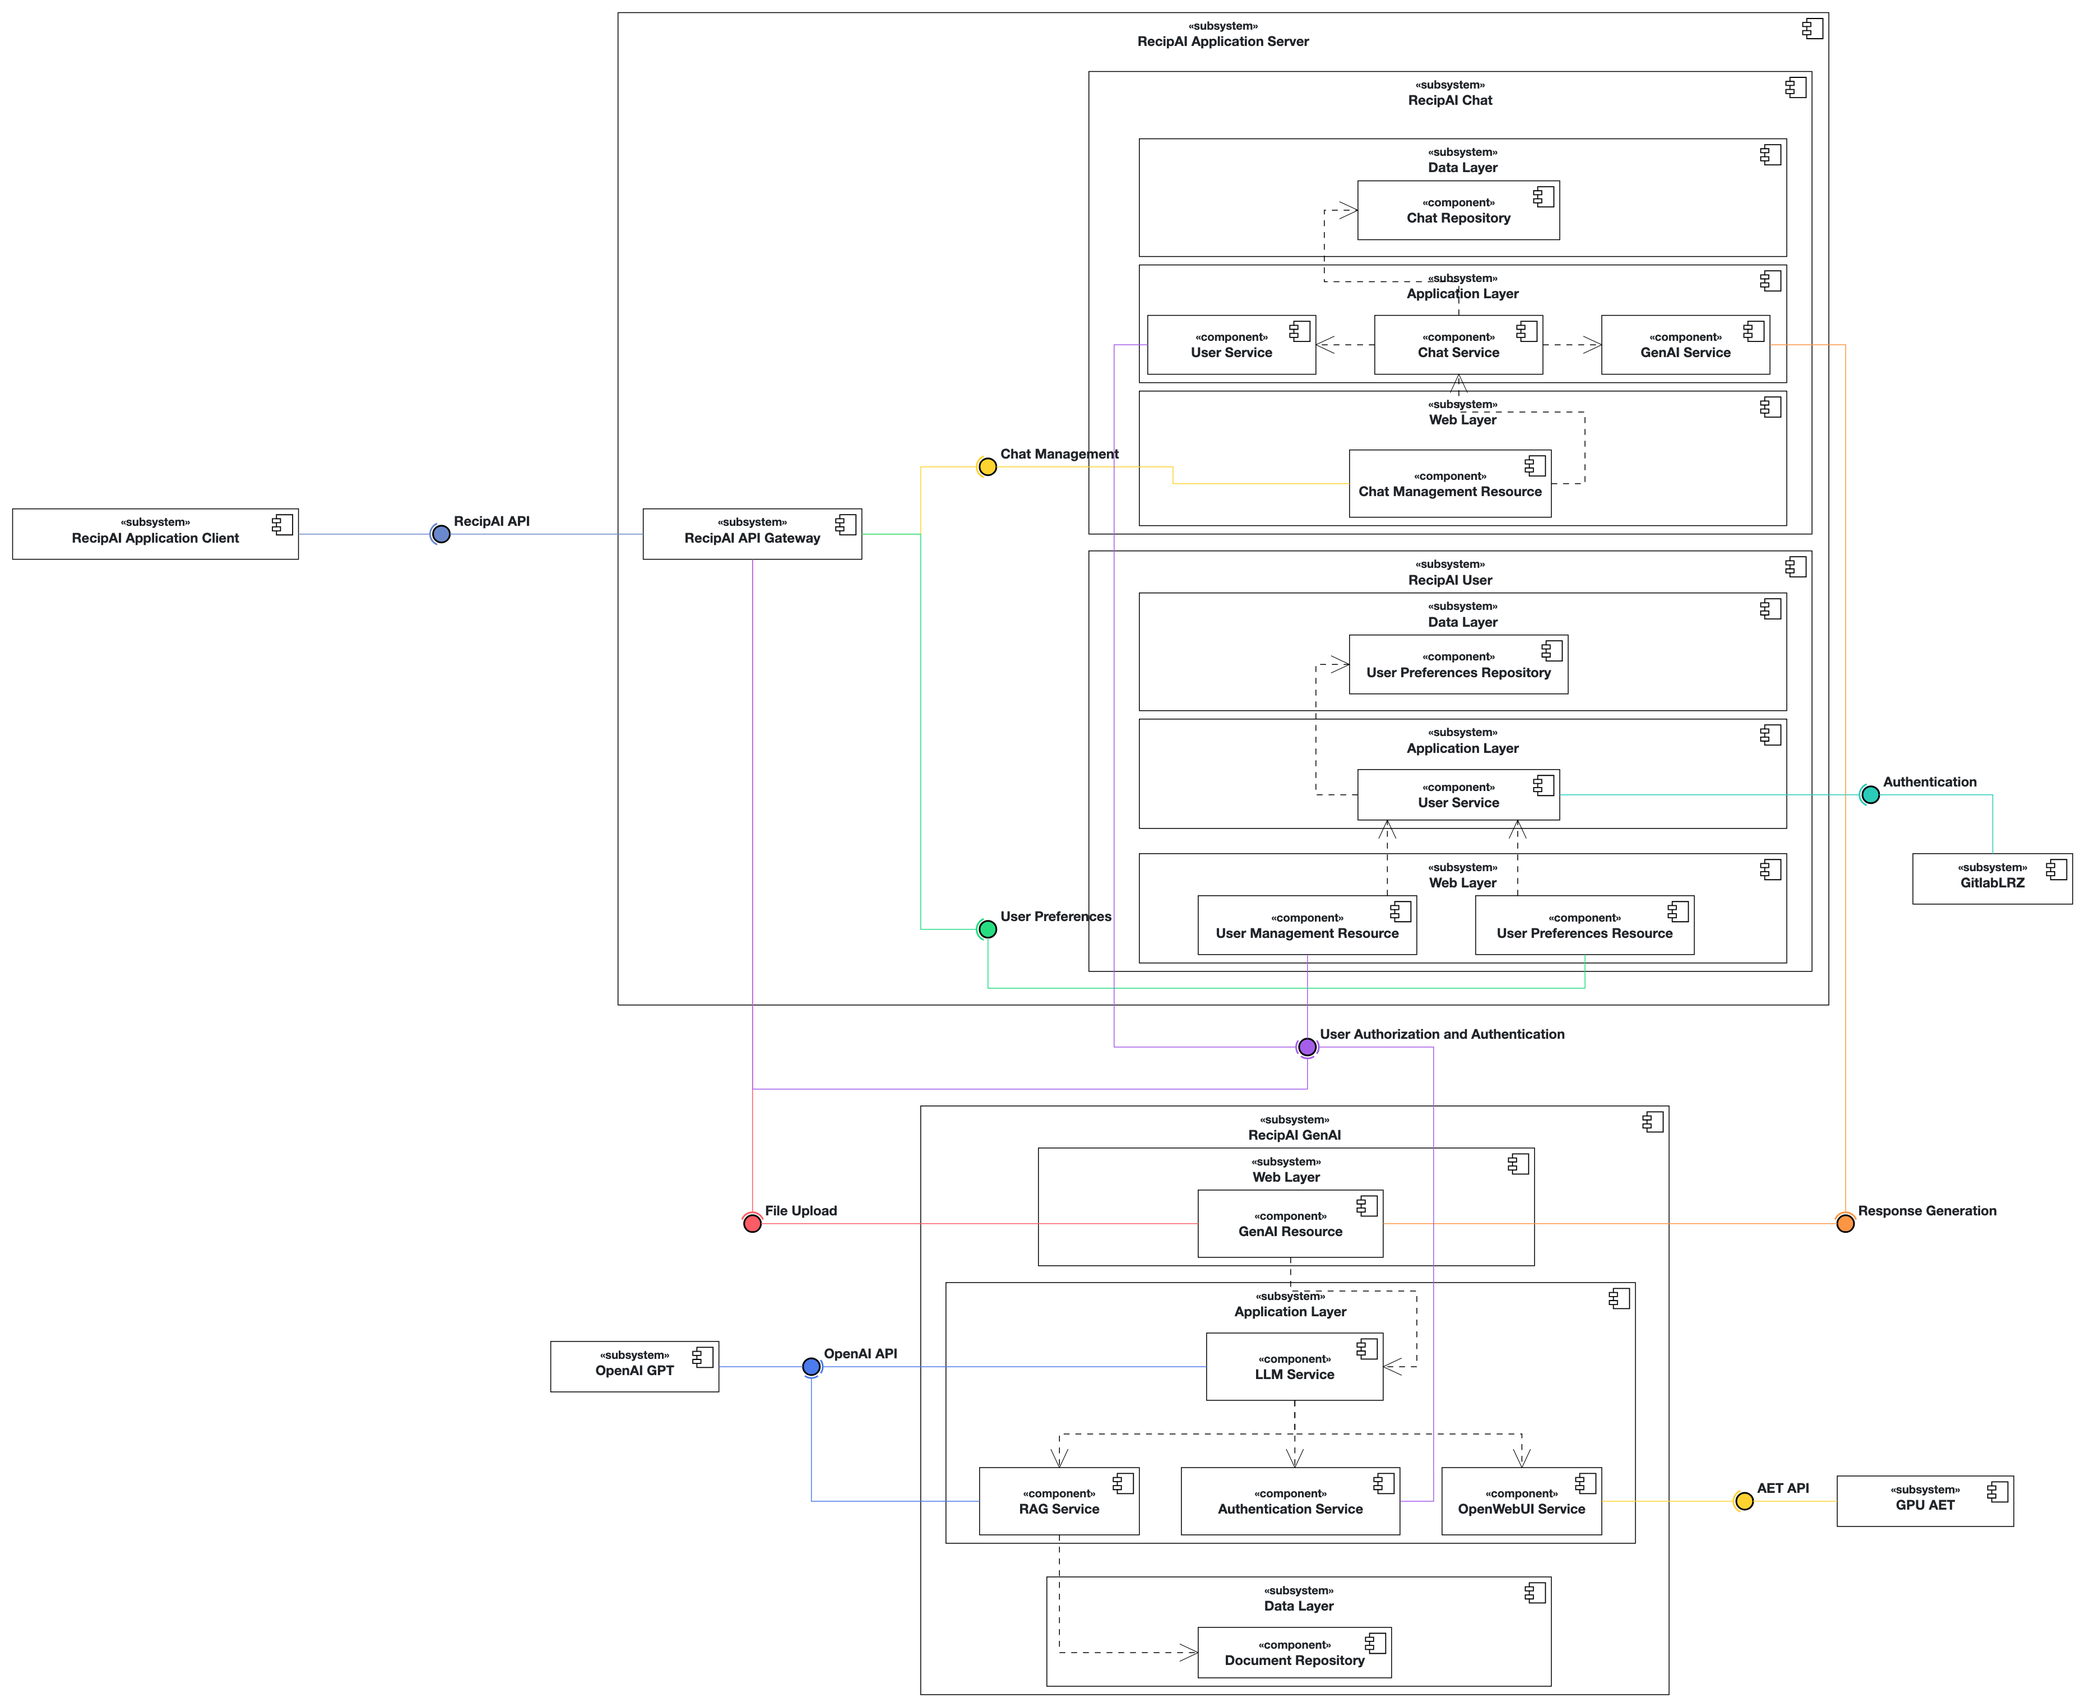
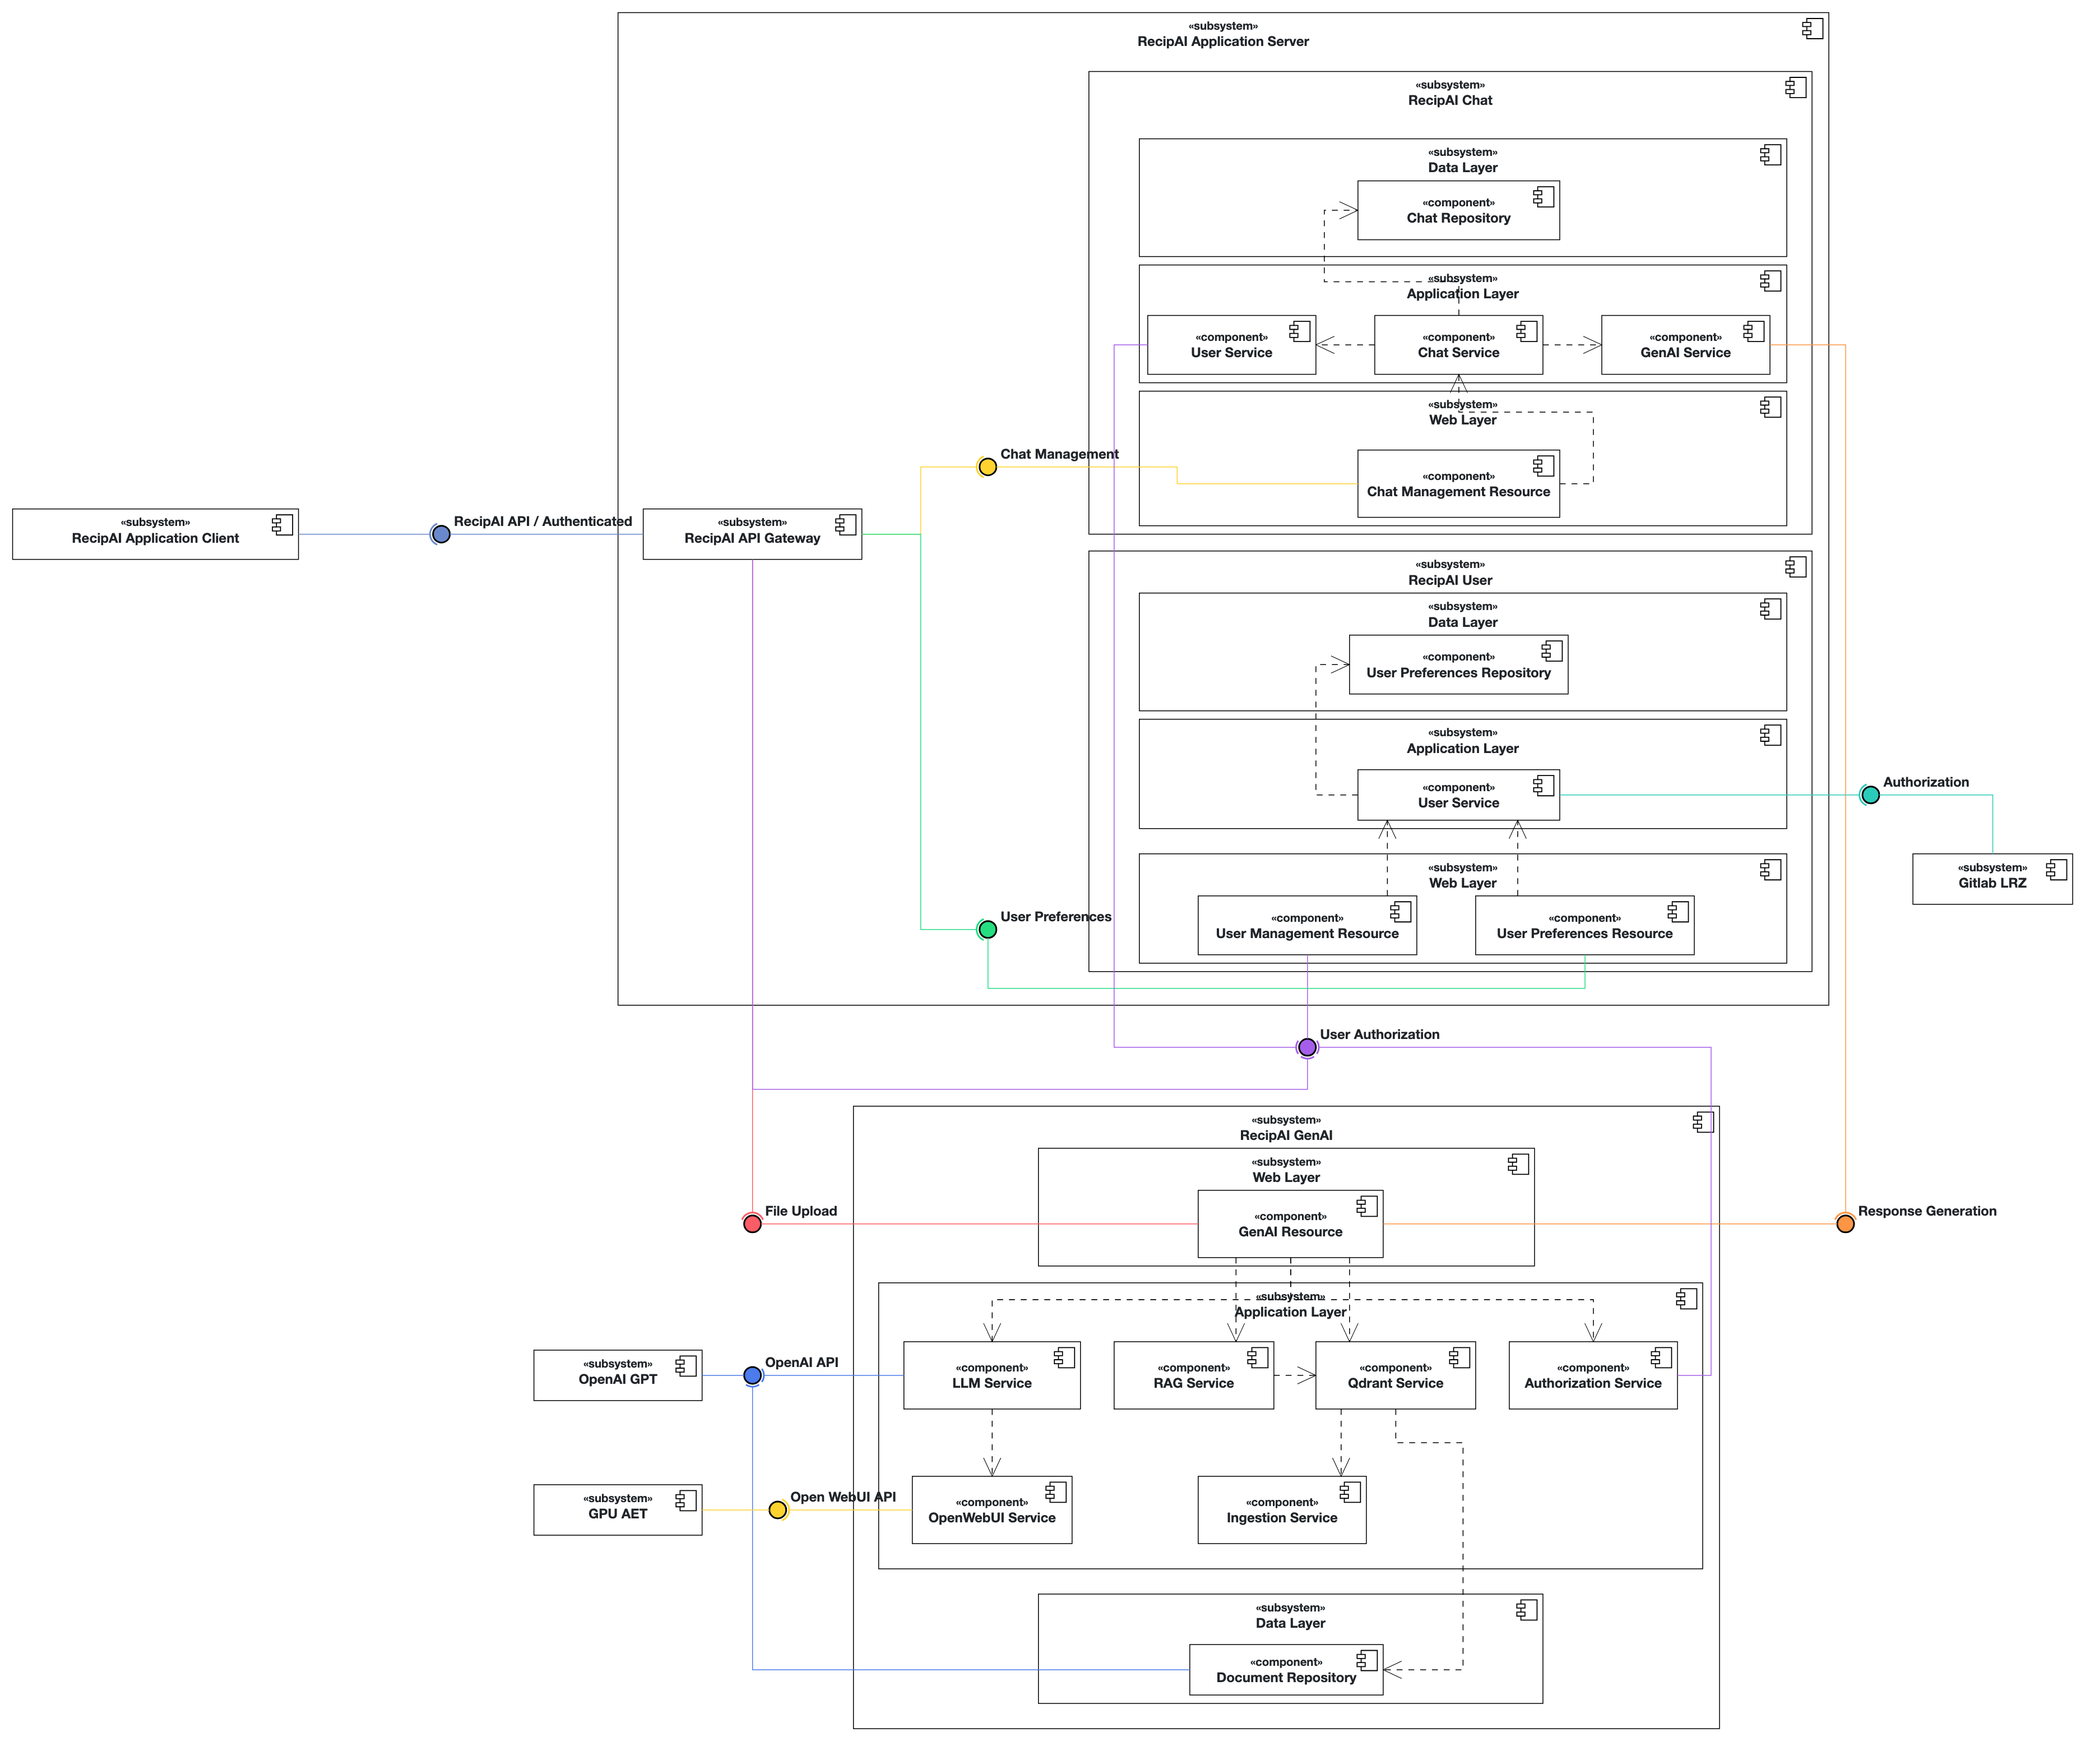
Update architecture diagram and finalize readme

diff --git a/requirements.md b/requirements.md
@@ -1,0 +1,69 @@
+# Project Requirements Checklist
+## 1. 🧩 Functional Application (20 Points)
+
+| Criteria  |	Points | Status | Where to find |
+|--------|--------|--------|--------|
+| End-to-end functionality between all components (client, server, database) | 	6 | ✅ | Application works fine at [`https://recipai.student.k8s.aet.cit.tum.de`](https://recipai.student.k8s.aet.cit.tum.de)|
+| Smooth and usable user interface|  	4 | ✅ | e.g. [Main Page](README.md#main-page), [User Preferences](README.md#user-preferences) |
+| REST API is clearly defined and matches functional needs|  	4 | ✅ | [openapi.yaml](api/openapi.yaml) |
+| Server Side has at least 3 microservices |  	4 |  ✅ | [API-Gateway](server/api-gw/), [User](server/user/), [Chat](server/user/)|
+| Application topic is appropriately chosen and fits project objectives | 	2 |  ✅ |  [Project Description](README.md#project-description), [Functional and Nonfunctional Requirements](README.md#requirements) |
+
+## 2. 🤖 GenAI Integration (10 Points)
+
+| Criteria  |	Points | Status | Where to find |
+|--------|--------|--------|--------|
+| GenAI module is well-embedded and fulfills a real user-facing purpose | 	4 | ✅ | [GenAI Integration](README.md#integration-of-generative-ai), [Techical Details of GenAI](README.md#genai-service-development) |
+| Connects to cloud/local LLM | 4 | ✅ | [Cloud and Local LLM Integration](genai/service/llm_service.py), [Cloud LLM](genai/rag/llm/cloud_chat_model.py), [Local LLM](genai/rag/llm/chat_model.py)  |
+| Modularity of the GenAI logic as a microservice | 2 | ✅ | [Dockerfile](genai/Dockerfile) |
+
+## 3. 🐳 Containerization & Local Setup (10 Points)
+
+| Criteria  |	Points | Status | Where to find |
+|--------|--------|--------|--------|
+| Each component is containerized and runnable in isolation | 6 | ✅ | [GenAI Docker Image](https://github.com/AET-DevOps25/team-continuous-disappointment/pkgs/container/team-continuous-disappointment%2Fgenai), [API Gateway Docker Image](https://github.com/AET-DevOps25/team-continuous-disappointment/pkgs/container/team-continuous-disappointment%2Fapi-gw), [Chat Docker Image](https://github.com/AET-DevOps25/team-continuous-disappointment/pkgs/container/team-continuous-disappointment%2Fchat), [User Docker Image](https://github.com/AET-DevOps25/team-continuous-disappointment/pkgs/container/team-continuous-disappointment%2Fuser), [Client Docker Image](https://github.com/AET-DevOps25/team-continuous-disappointment/pkgs/container/team-continuous-disappointment%2Fclient)|
+| docker-compose.yml enables local development and testing with minimal effort and provides sane defaults (no complex env setup required) | 4 | ✅ | [Docker Compose File](docker-compose.yml), For Local Development: [Docker Compose Dev File](docker-compose-dev.yml) |
+
+## 4. 🔁 CI/CD & Deployment (20 Points)
+
+| Criteria  |	Points | Status | Where to find |
+|--------|--------|--------|--------|
+| CI pipeline with build, test, and Docker image generation via GitHub Actions | 8 | ✅ | [CI/CD Pipeline](https://github.com/AET-DevOps25/team-continuous-disappointment/actions/workflows/ci-cd.yml), [CI/CD Github Actions File](.github/workflows/ci-cd.yml)|
+| CD pipeline set up to automatically deploy to Kubernetes on main merge | 6 | ✅ | Line 256: helm-deploy in [CI/CD Github Actions File](.github/workflows/ci-cd.yml)  |
+| Deployment works on our infrastructure (Rancher) and Cloud (AWS) | 6 | ✅ | [Rancher Deployment](.github/workflows/ci-cd.yml), [AWS Deployment with Ansible](.github/workflows/ansible-manual.yml) and [Ansible Playbooks](infra/ansible/playbooks/) | 
+
+## 5. 📊 Monitoring & Observability (10 Points)
+
+| Criteria  |	Points | Status | Where to find |
+|--------|--------|--------|--------|
+| Prometheus integrated and collecting meaningful metrics | 4 | ✅ | [Kubernetes](infra/recipai-chart/templates/prometheus/), [Docker](monitoring/prometheus/)|
+| Grafana dashboards for system behavior visualization | 4 | ✅ | Kubernetes: [GenAI Dashboard](infra/recipai-chart/dashboards/genai-dashboard.json), [Chat Dasboard](infra/recipai-chart/dashboards/chat-dashboard.json), [System Dashboard](infra/recipai-chart/dashboards/system-dashboard.json); Docker: [GenAI Dashboard](monitoring/grafana/provisioning/dashboards/genai-dashboard.json), [Chat Dasboard](monitoring/grafana/provisioning/dashboards/chat-dashboard.json), [System Dashboard](monitoring/grafana/provisioning/dashboards/system-dashboard.json) |
+| At least one alert rule set up | 2 | ✅ | [Discord Alert in Kubernetes](infra/recipai-chart/templates/grafana/grafana-alerting.yml), [Discord Alert in Docker](monitoring/grafana/provisioning/alerting/) |
+
+## 6. 🧪 Testing & Structured Engineering Process (20 Points)
+
+| Criteria  |	Points | Status | Where to find |
+|--------|--------|--------|--------|
+| Test cases implemented for server/client and GenAI logic | 6 | ✅ | [Server: Chat](server/chat/src/test/java/com/continiousdisappointment/chat/ChatServiceTest.java), [Server: User](server/user/src/test/java/com/continiousdisappointment/user/UserServiceTest.java), [GenAI](genai/tests/), [Client](client/src/components/__tests__/)|
+| Evidence of software engineering process: documented requirements, architecture models, such as top-level architecture, use case diagramm and analysis object model. | 10 | ✅ | [UML Diagrams](docs/architecture_diagrams/), [Functional and Nonfunctional Requirements](README.md#requirements) |
+| Tests run automatically in CI and cover key functionality | 4 | ✅ | [All tests run automatically in CI/CD](.github/workflows/ci-cd.yml) |
+
+## 7. 📚 Documentation & Weekly Reporting (10 Points)
+
+| Criteria  |	Points | Status | Where to find |
+|--------|--------|--------|--------|
+| README.md and some parts in Confluence includes setup instructions, architecture overview, usage guide, and a clear mapping of student responsibilities | 2 | ✅ | [Setup Instructions](README.md#setup-instructions), [Architecture Overview](README.md#architecture-overview), [Usage Guide](README.md#usage-guide), [Student Responsibilities](README.md#components-and-responsibilities-system-design), [Weekly Reports](https://confluence.aet.cit.tum.de/spaces/DO25WR/pages/258580182/team+continous+disappointment)|
+| Documentation of CI/CD setup, and GenAI usage included | 2 | ✅ | [CI/CD Setup](README.md#cicd-pipeline), [GenAI Usage](README.md#genai-usage) |
+| Deployment and local setup instructions are clear, reproducible, and platform-specific (≤3 commands for local setup, with sane defaults) | 2 | ✅ | [Local Setup Instructions](README.md#setup-instructions), [Running the Application](README.md#running-the-application), [Deployment Instructions](README.md#cicd-pipeline) |
+| Subsystems have documented interfaces (API-driven deployment, e.g. Swagger/OpenAPI) | 2 | ✅ | [openapi.yaml](api/openapi.yaml), API Documentation published via Github Pages [`https://aet-devops25.github.io/team-continuous-disappointment/api-documentation/`](https://aet-devops25.github.io/team-continuous-disappointment/api-documentation/) |
+| Monitoring instructions included in the documentation and exported as files | 2 | ✅ | [Monitoring and Observability](README.md#monitoring-and-observability) |
+
+## 🏅 Bonus Points (up to +5)
+
+| Criteria  |	Points | Status | Where to find |
+|--------|--------|--------|--------|
+| Advanced Kubernetes use (e.g., self-healing, custom operators, auto-scaling) | +1 | ❌ | - |
+| Full RAG pipeline implementation (with vector DB like Weaviate) | +1 | ✅ | [Qdrant Vector Database](genai/vector_database/qdrant_vdb.py), [Qdrant Service](genai/service/qdrant_service.py), [Ingestion Pipeline](genai/service/ingestion_service.py), [RAG Service](genai/service/rag_service.py) |
+| Real-world-grade observability (e.g., log aggregation, tracing) | +1 | ✅ | Log Aggregation implemented: [Loki for Kubernetes](infra/recipai-chart/templates/loki/), [Promtail for Kubernetes](infra/recipai-chart/templates/promtail/), [Loki for Docker](monitoring/loki/), [Promtail for Docker](monitoring/promtail/) |
+| Beautiful, original UI or impactful project topic | +1 | ❓ | We think RecipAI has a beautiful UI and a nice project for cooking enthusiasts and individuals with dietary restrictions 👩🍳👨🍳 |
+| Advanced monitoring setup with extensive and meaningful metrics (e.g., custom Prometheus exporters or Grafana dashboards with annotated insights) | +1 | ✅ | [Extensive Prometheus Metrics for GenAI with Grafana Dashboard](infra/recipai-chart/dashboards/genai-dashboard.json), [Extensive Prometheus Metrics for Chat Service with Grafana Dashboard](infra/recipai-chart/dashboards/chat-dashboard.json), [Custom Node-level CPU/memory monitoring with Grafana Dashboard](infra/recipai-chart/dashboards/system-dashboard.json) |

diff --git a/README.md b/README.md
@@ -26,6 +26,22 @@ The application is designed for home cooks, culinary enthusiasts, individuals wi
 
 Generative AI is integrated meaningfully through a dedicated LLM microservice developed in Python. This service processes user inputs in natural language, generates recipes based on the provided ingredients, modifies existing recipes according to user needs, and provides meal suggestions based on the user dietary preferences. The use of GenAI enhances the user experience by offering a personalized RAG system that emphasizes user-specific recipe collections. Through the use of a conversational AI system, we provide to the users with a multi-turn chat with context preservation.
 
+### Usage Guide
+
+RecipAI provides an intuitive chat-based interface for generating recipes, meal plans, and managing dietary preferences. Here's how to use the application:
+
+#### Getting Started
+1. **Login**: Access the application at the deployed URL and sign in using your GitLab LRZ credentials
+2. **Set Preferences**: Configure your dietary restrictions and preferences (vegan, gluten-free, diabetic, etc.) in the user settings
+3. **Start Chatting**: Use the main chat interface to interact with the AI recipe assistant
+
+#### Tips for Best Results
+- Be specific about dietary restrictions, cooking time, or cuisine preferences
+- Include the number of servings when requesting recipes
+- Mention available cooking equipment or preferred cooking methods
+- Ask follow-up questions to refine or modify generated recipes
+
+
 ### Functional Scenarios
 
 1. **Ingredient-Based Recipe Generation**: A user inputs, "Suggest a quick dinner recipe with chicken and broccoli." The system uses the LLM to generate a relevant recipe, which is presented to the user through the user interface.
@@ -154,6 +170,10 @@ Generative AI is integrated meaningfully through a dedicated LLM microservice de
 | Database        | MongoDB           |
 | Vector Database | Qdrant            |
 | Auth            | GitLab LRZ SSO    |
+
+## Project Requirements Checklist
+
+We fulfilled all the project requirements for RecipAI. You can find our project requirements checklist here: [Project Requirements Checklist](requirements.md)
 
 ## Setup Instructions
 
@@ -422,7 +442,7 @@ BASE_URL="base url where openwebui is hosted"
 ```
 - However, you do not need to set all of these fields in your `.env` file. To run the GenAI module, you need at least the API_OPENAI, API_OPENWEBUI, and BASE_URL variables. You can find more information in the [.env.template](.env.template) file.
 
-- Example for Cloud LLM Models (defined in `genai/services/llm_service.py`):
+- Example for Cloud LLM Models (defined in `genai/service/llm_service.py`):
 
 ```bash
 llm_cloud_anthropic = CloudLLM(
@@ -448,7 +468,7 @@ llm_cloud_anthropic = CloudLLM(
 # llm = CloudLLM() # same as llm_cloud_openai
 ```
 
-- Example for Local LLM Models (defined in `genai/services/llm_service.py`):
+- Example for Local LLM Models (defined in `genai/service/llm_service.py`):
 
 ```bash
 # Make calls to local models in openwebui (model can be changed by giving a different model_name as parameter)
